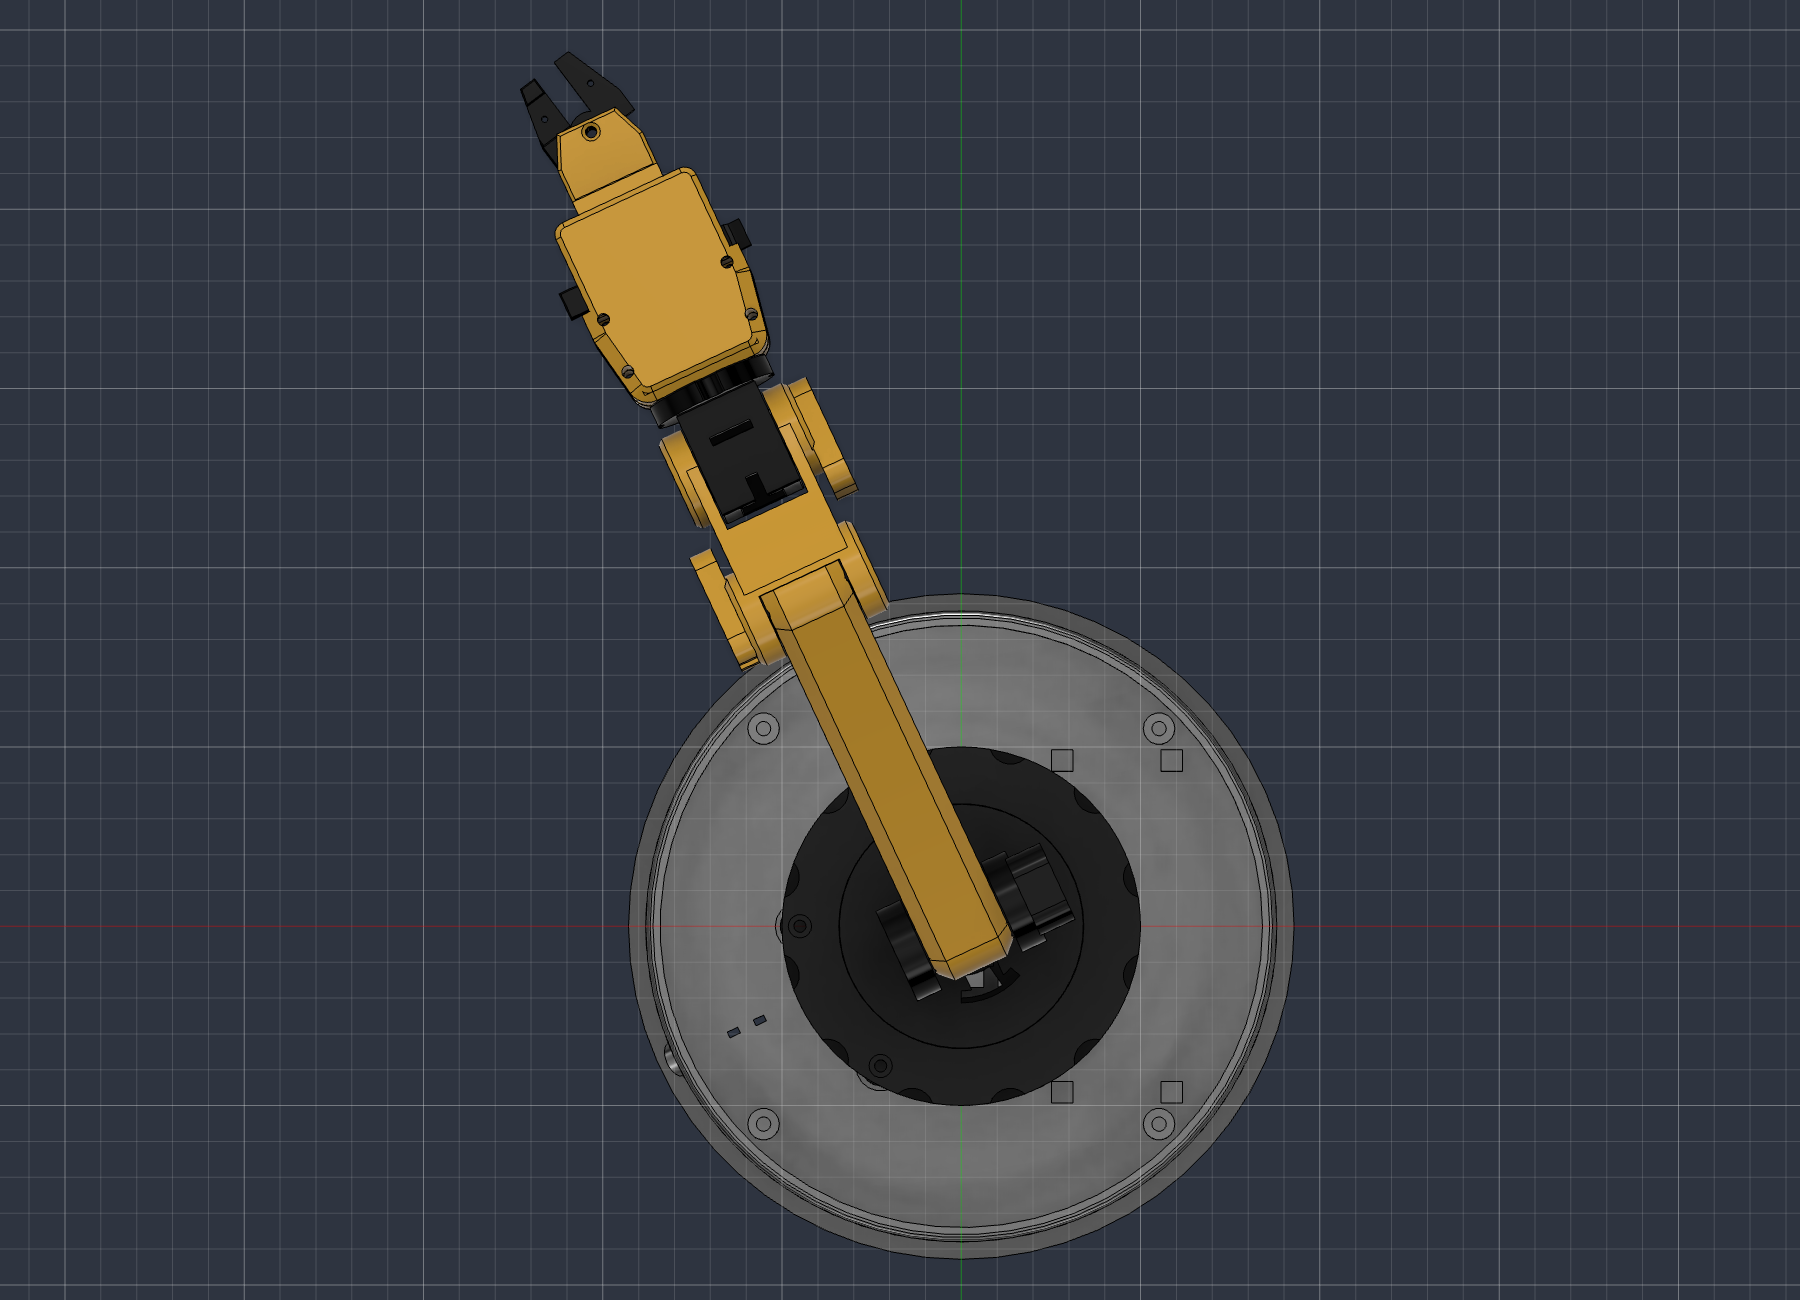
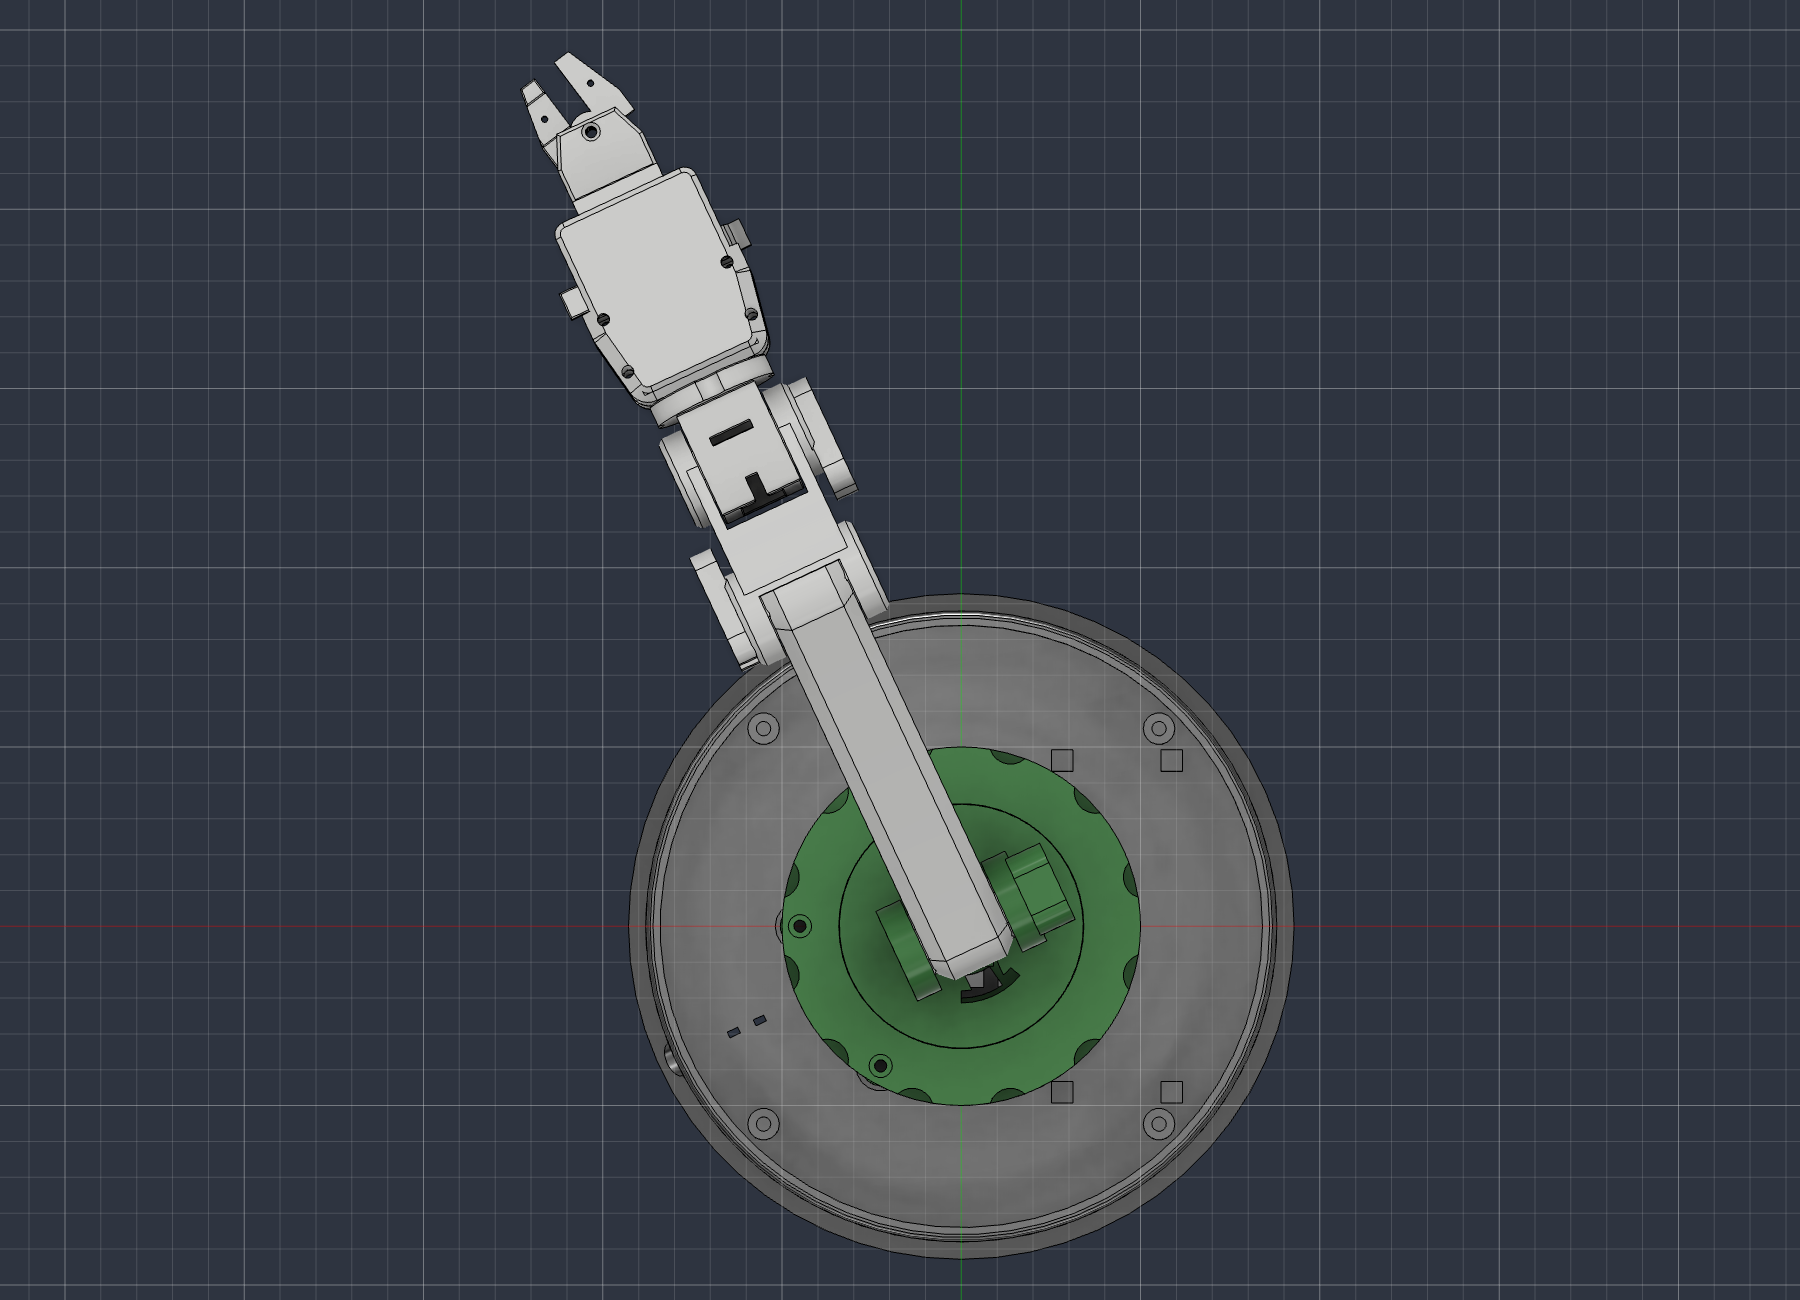
robotarm: forest green and white, from one palette instead of seventeen files
Seventeen part files each carried their own APPEARANCE_HINTS, so a re-theme
meant editing seventeen files and hoping you found them all. That is the
'a datum only one file reads is a decoration, not a contract' trap this
project has now hit five times. Colour is only cosmetic, but the SHAPE of
the mistake is the expensive one, so it is fixed the same way: lib/palette.py
holds the scheme and every part reads it.

GREEN is the fixed half - turntable_stator, turntable_ring, base_lid,
shoulder_bracket - because the platter is ALREADY printed in green, so what
exists sets the colour of what bolts to it. Everything that moves is white.
It also reads well: the eye follows the moving parts, which is what you want
when you are watching a mechanism you are debugging.

base_lid had NO appearance at all and was rendering in default grey while
everything round it was themed - half the visible footprint of the machine.

AND THE THEME PASS CAUGHT A REAL BUG, which is the only reason it is worth
this much commit message:

  shoulder_bracket carries its own copy of the upper arm length, sb_arm_l1,
  for the J2 down-pitch scan. It was still 65.0 while ua_l1 had gone to
  125.0. Its assert fired the moment the part was rebuilt.

  The ledger had reported PASS in between. It was not lying - the only run
  since the L1 change was BATCH 3, and shoulder_bracket sat in the document
  STALE from before it, matching its own old volume. A gate that never
[…]

Changed region(s): [[0.28, 0.0308, 0.6533, 0.8615]]

diff --git a/lib/palette.py b/lib/palette.py
@@ -1,0 +1,47 @@
+"""lib/palette - which part is which colour, in ONE place.
+
+Seventeen part files each carried their own APPEARANCE_HINTS. Changing the
+scheme meant editing seventeen files and hoping you found them all - the
+exact "a datum only one file reads is a decoration, not a contract" trap
+this project has now hit five times (shaft_from_end, lead_bundle_dia, the
+horn widths, the gauge constants, and the lead datum itself). The colour is
+cosmetic, so the cost of getting it wrong is only an ugly render - but the
+SHAPE of the mistake is the expensive one, so it is fixed the same way.
+
+THE SCHEME, 2026-08-29: forest green and white.
+
+Green goes on the base and the turret because Jonathan's platter is ALREADY
+printed in green - so the fixed half of the machine matches what exists, and
+everything that moves is white. That also happens to read well: the eye
+follows the moving parts, which is what you want when you are watching a
+mechanism you are debugging.
+
+Fusion's stock libraries have no "forest green", so HINTS resolves to the
+nearest stock plastic and RGB carries the exact colour for anything that
+wants to tint it properly later. Nothing prints in these colours - filament
+is filament - so this drives renders and the assembly diagrams only.
+"""
+
+# what the eye should read as FIXED (the base and turret)
+GREEN = ('turntable_stator', 'turntable_ring', 'base_lid', 'shoulder_bracket')
+
+# forest green #228B22, white #F5F5F5 - the exact values, for a tinted
+# appearance. HINTS is the fallback that finds a stock Fusion appearance by
+# substring, which is how every part file already looks one up.
+RGB = {'green': (34, 139, 34), 'white': (245, 245, 245)}
+HINTS = {
+    'green': [('plastic', 'green'), ('paint', 'green'), ('green',),
+              ('plastic',)],
+    'white': [('plastic', 'white'), ('paint', 'white'), ('white',),
+              ('plastic',)],
+}
+
+
+def colour_of(part_name):
+    """'green' for the fixed half, 'white' for everything that moves."""
+    return 'green' if part_name in GREEN else 'white'
+
+
+def hints_for(part_name):
+    """The substring hint list a part file feeds its appearance lookup."""
+    return HINTS[colour_of(part_name)]

diff --git a/models/robotarm/shoulder_bracket.py b/models/robotarm/shoulder_bracket.py
@@ -102,7 +102,11 @@ PH_FINISH = 'finish'
 PHASES = [PH_FORM, PH_PIVOT, PH_DRIVE, PH_BASE, PH_FINISH]
 MATERIAL_NAME = 'PET Plastic'
 # _style.md rule 5: two-tone by PART. A bracket is structure, so it is dark.
-APPEARANCE_HINTS = [('plastic', 'black'), ('paint', 'black'), ('black',), ('plastic',)]
+# COLOUR LIVES IN lib/palette.py, not here. It used to be typed in this
+# file and sixteen others, so a re-theme meant editing seventeen files
+# and hoping you found them all.
+from lib.palette import hints_for  # noqa: E402
+APPEARANCE_HINTS = hints_for('shoulder_bracket')
 
 
 def run(_context: str):
@@ -298,10 +302,16 @@ def run(_context: str):
     param('lobe_pad', '3.0 mm', 'material past the end of the outermost tab slot')
 
     # ---- the upper arm, for the down-pitch scan ONLY -------------------------
-    param('arm_l1', '65.0 mm',
+    param('arm_l1', '125.0 mm',
           'upper arm length - MUST TRACK ua_l1 in upper_arm.py. Was 85.0 and did\n'
           '           NOT track it when ua_l1 moved to 65 on 2026-08-26, because a\n'
-          '           comment is not a mechanism. The assertion below is.')
+          '           comment is not a mechanism. The assertion below is - and it\n'
+          '           earned its keep again on 2026-08-29, catching this at 65.0\n'
+          '           when ua_l1 had gone to 125. The ledger had reported PASS in\n'
+          '           between, because the only run since the change was BATCH 3\n'
+          '           and this part sat in the document STALE, matching its own\n'
+          '           old volume. A gate that never rebuilt a part is not a gate\n'
+          '           that checked it.')
     param('arm_half', '13.0 mm',
           'upper arm half height at its widest (the drum) - MUST TRACK ua_drum_r.\n'
           '           Conservative: the waist is only 12.0.')

diff --git a/models/robotarm/base_lid.py b/models/robotarm/base_lid.py
@@ -427,8 +427,27 @@ def run(_context: str):
         if m:
             body.material = m
             break
+    # COLOUR from lib/palette.py. This part had no appearance at all, so it
+    # rendered in Fusion's default grey while everything around it was
+    # themed - the lid is half the visible footprint of the machine.
+    from lib.palette import hints_for   # noqa: E402
+    used_appearance = 'none'
+    for want in hints_for('base_lid'):
+        for i in range(app.materialLibraries.count):
+            apps = app.materialLibraries.item(i).appearances
+            for j in range(apps.count):
+                a = apps.item(j)
+                if all(w.lower() in a.name.lower() for w in want):
+                    body.appearance = a
+                    used_appearance = a.name
+                    break
+            if used_appearance != 'none':
+                break
+        if used_appearance != 'none':
+            break
     bb = body.boundingBox
-    print('body: %r | material: %s' % (body.name, body.material.name))
+    print('body: %r | material: %s | appearance: %s'
+          % (body.name, body.material.name, used_appearance))
     print('REPLACES the printed base_lid_v1, which has NO central opening -')
     print('  measured, not assumed: its own spec claims a 60.0 servo hole and the')
     print('  STEP has nothing in the middle. The SG90 could never have gone in.')

diff --git a/models/robotarm/gripper_rack_jaw.py b/models/robotarm/gripper_rack_jaw.py
@@ -37,8 +37,11 @@ PREFIX = 'rj_'
 SHARED = 'gr_'      # gear contract shared with gripper_pinion.py
 STYLE = 'sty_'      # design language - specs/robotarm/_style.md
 # _style.md rule 5: two-tone by PART. The jaws are body, so they are light.
-APPEARANCE_HINTS = [('plastic', 'yellow'), ('paint', 'yellow'), ('yellow',),
-                    ('plastic',)]
+# COLOUR LIVES IN lib/palette.py, not here. It used to be typed in this
+# file and sixteen others, so a re-theme meant editing seventeen files
+# and hoping you found them all.
+from lib.palette import hints_for  # noqa: E402
+APPEARANCE_HINTS = hints_for('gripper_rack_jaw')
 MATERIAL_NAME = 'PET Plastic'
 PHASES = ['rack bar', 'jaw arm and blade', 'finish']
 

diff --git a/models/robotarm/gripper_shell.py b/models/robotarm/gripper_shell.py
@@ -65,8 +65,11 @@ MATERIAL_NAME = 'PET Plastic'
 # _style.md rule 5: two-tone by PART. The shell is a body, so it is light.
 # Matched as sets of substrings, best first, against every appearance in
 # every loaded library.
-APPEARANCE_HINTS = [('plastic', 'yellow'), ('paint', 'yellow'), ('yellow',),
-                    ('plastic', 'opaque'), ('plastic',)]
+# COLOUR LIVES IN lib/palette.py, not here. It used to be typed in this
+# file and sixteen others, so a re-theme meant editing seventeen files
+# and hoping you found them all.
+from lib.palette import hints_for  # noqa: E402
+APPEARANCE_HINTS = hints_for('gripper_shell')
 
 
 def run(_context: str):

diff --git a/models/robotarm/pruner_shell.py b/models/robotarm/pruner_shell.py
@@ -58,8 +58,11 @@ MATERIAL_NAME = 'PET Plastic'
 # _style.md rule 5: two-tone by PART. The shell is a body, so it is light.
 # Matched as sets of substrings, best first, against every appearance in
 # every loaded library.
-APPEARANCE_HINTS = [('plastic', 'yellow'), ('paint', 'yellow'), ('yellow',),
-                    ('plastic', 'opaque'), ('plastic',)]
+# COLOUR LIVES IN lib/palette.py, not here. It used to be typed in this
+# file and sixteen others, so a re-theme meant editing seventeen files
+# and hoping you found them all.
+from lib.palette import hints_for  # noqa: E402
+APPEARANCE_HINTS = hints_for('pruner_shell')
 
 
 def run(_context: str):

diff --git a/models/robotarm/gripper_pinion.py b/models/robotarm/gripper_pinion.py
@@ -27,8 +27,11 @@ PREFIX = 'gp_'
 SHARED = 'gr_'      # gear contract shared with gripper_rack_jaw.py
 MATERIAL_NAME = 'PET Plastic'
 # _style.md rule 5: two-tone by PART. The pinion is a joint, so it is dark.
-APPEARANCE_HINTS = [('plastic', 'black'), ('paint', 'black'), ('black',),
-                    ('plastic',)]
+# COLOUR LIVES IN lib/palette.py, not here. It used to be typed in this
+# file and sixteen others, so a re-theme meant editing seventeen files
+# and hoping you found them all.
+from lib.palette import hints_for  # noqa: E402
+APPEARANCE_HINTS = hints_for('gripper_pinion')
 PHASES = ['gear teeth', 'horn interface', 'finish']
 
 

diff --git a/models/robotarm/pruner_rack.py b/models/robotarm/pruner_rack.py
@@ -56,7 +56,11 @@ SHARED = 'gr_'      # gear contract shared with gripper_pinion.py
 STYLE = 'sty_'
 MATERIAL_NAME = 'PET Plastic'
 # _style.md rule 5: two-tone by PART. A rack is a moving part, so it is dark.
-APPEARANCE_HINTS = [('plastic', 'black'), ('paint', 'black'), ('black',), ('plastic',)]
+# COLOUR LIVES IN lib/palette.py, not here. It used to be typed in this
+# file and sixteen others, so a re-theme meant editing seventeen files
+# and hoping you found them all.
+from lib.palette import hints_for  # noqa: E402
+APPEARANCE_HINTS = hints_for('pruner_rack')
 PHASES = ['rack bar', 'drive bracket', 'finish']
 
 

diff --git a/models/robotarm/pruner_blade.py b/models/robotarm/pruner_blade.py
@@ -73,7 +73,11 @@ PH_FINISH = 'finish'
 PHASES = [PH_FORM, PH_PIVOT, PH_STEEL, PH_DRIVE, PH_FINISH]
 MATERIAL_NAME = 'PET Plastic'
 # _style.md rule 5: two-tone by PART. A blade carrier is a moving part: dark.
-APPEARANCE_HINTS = [('plastic', 'black'), ('paint', 'black'), ('black',), ('plastic',)]
+# COLOUR LIVES IN lib/palette.py, not here. It used to be typed in this
+# file and sixteen others, so a re-theme meant editing seventeen files
+# and hoping you found them all.
+from lib.palette import hints_for  # noqa: E402
+APPEARANCE_HINTS = hints_for('pruner_blade')
 
 
 def run(_context: str):

diff --git a/models/robotarm/forearm.py b/models/robotarm/forearm.py
@@ -77,7 +77,11 @@ FACET = True
 PHASES = [PH_FORM, PH_CLEAR, PH_PIVOT, PH_DRIVE, PH_CABLE, PH_FINISH]
 MATERIAL_NAME = 'PET Plastic'
 # _style.md rule 5: two-tone by PART. A link is light; the joints are dark.
-APPEARANCE_HINTS = [('plastic', 'yellow'), ('paint', 'yellow'), ('yellow',), ('plastic',)]
+# COLOUR LIVES IN lib/palette.py, not here. It used to be typed in this
+# file and sixteen others, so a re-theme meant editing seventeen files
+# and hoping you found them all.
+from lib.palette import hints_for  # noqa: E402
+APPEARANCE_HINTS = hints_for('forearm')
 
 
 def run(_context: str):

diff --git a/models/robotarm/upper_arm.py b/models/robotarm/upper_arm.py
@@ -41,7 +41,11 @@ STYLE = 'sty_'
 PHASES = ['link form', 'elbow sockets', 'shoulder sockets', 'cable route', 'finish']
 MATERIAL_NAME = 'PET Plastic'
 # _style.md rule 5: two-tone by PART. A link is light.
-APPEARANCE_HINTS = [('plastic', 'yellow'), ('paint', 'yellow'), ('yellow',), ('plastic',)]
+# COLOUR LIVES IN lib/palette.py, not here. It used to be typed in this
+# file and sixteen others, so a re-theme meant editing seventeen files
+# and hoping you found them all.
+from lib.palette import hints_for  # noqa: E402
+APPEARANCE_HINTS = hints_for('upper_arm')
 
 
 def run(_context: str):

diff --git a/models/robotarm/turntable_ring.py b/models/robotarm/turntable_ring.py
@@ -57,7 +57,11 @@ SCALLOP_N = 12
 SCALLOP_AZ0 = 15.0        # halfway between lobes, so lobes land on 0/30/60...
 MATERIAL_NAME = 'PET Plastic'
 # _style.md rule 5: two-tone by PART. The base is dark.
-APPEARANCE_HINTS = [('plastic', 'black'), ('paint', 'black'), ('black',), ('plastic',)]
+# COLOUR LIVES IN lib/palette.py, not here. It used to be typed in this
+# file and sixteen others, so a re-theme meant editing seventeen files
+# and hoping you found them all.
+from lib.palette import hints_for  # noqa: E402
+APPEARANCE_HINTS = hints_for('turntable_ring')
 
 
 def run(_context: str):
